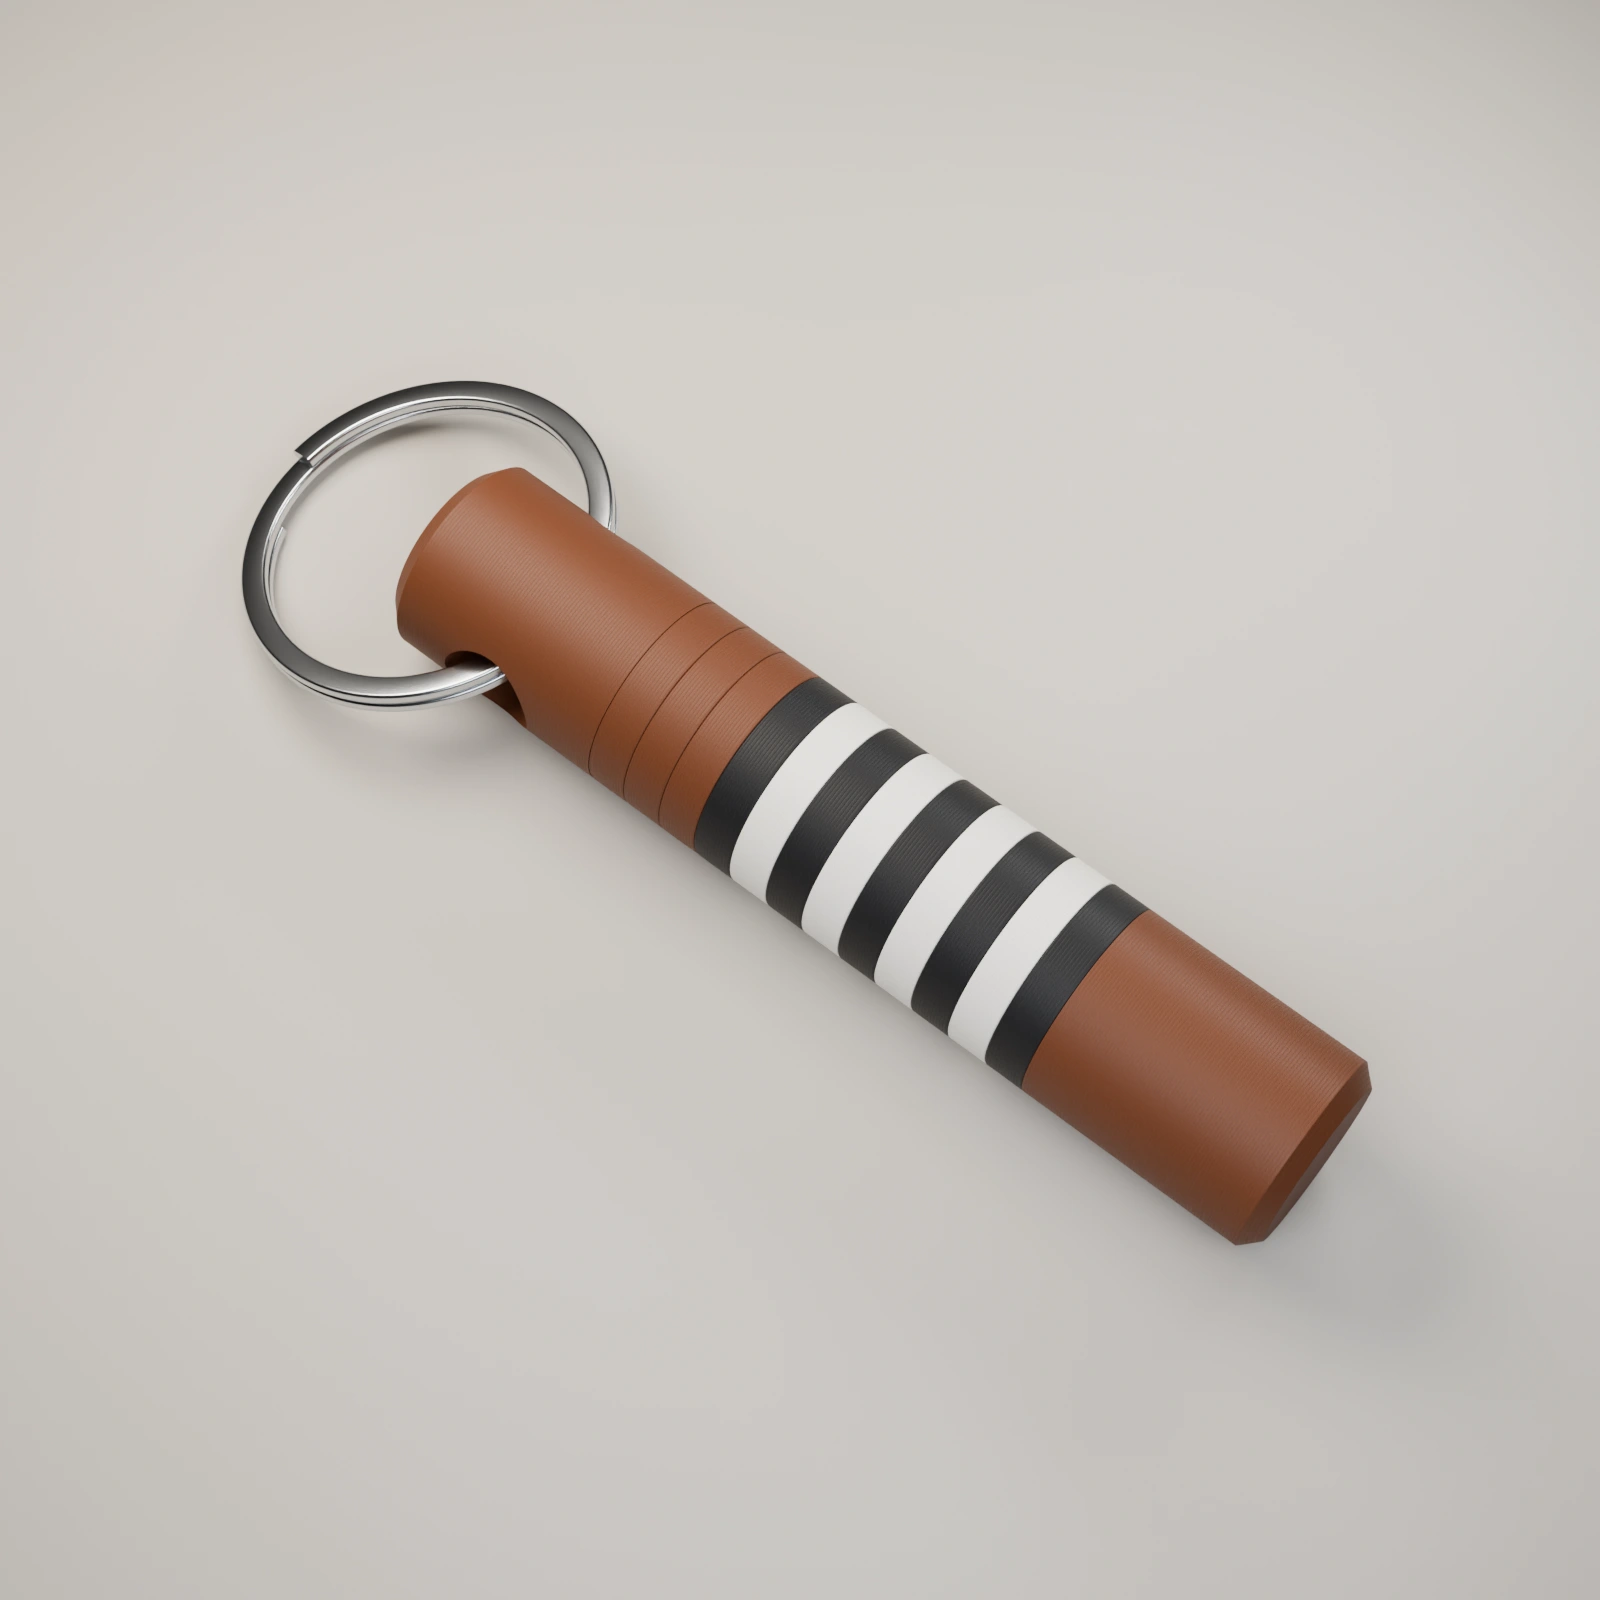
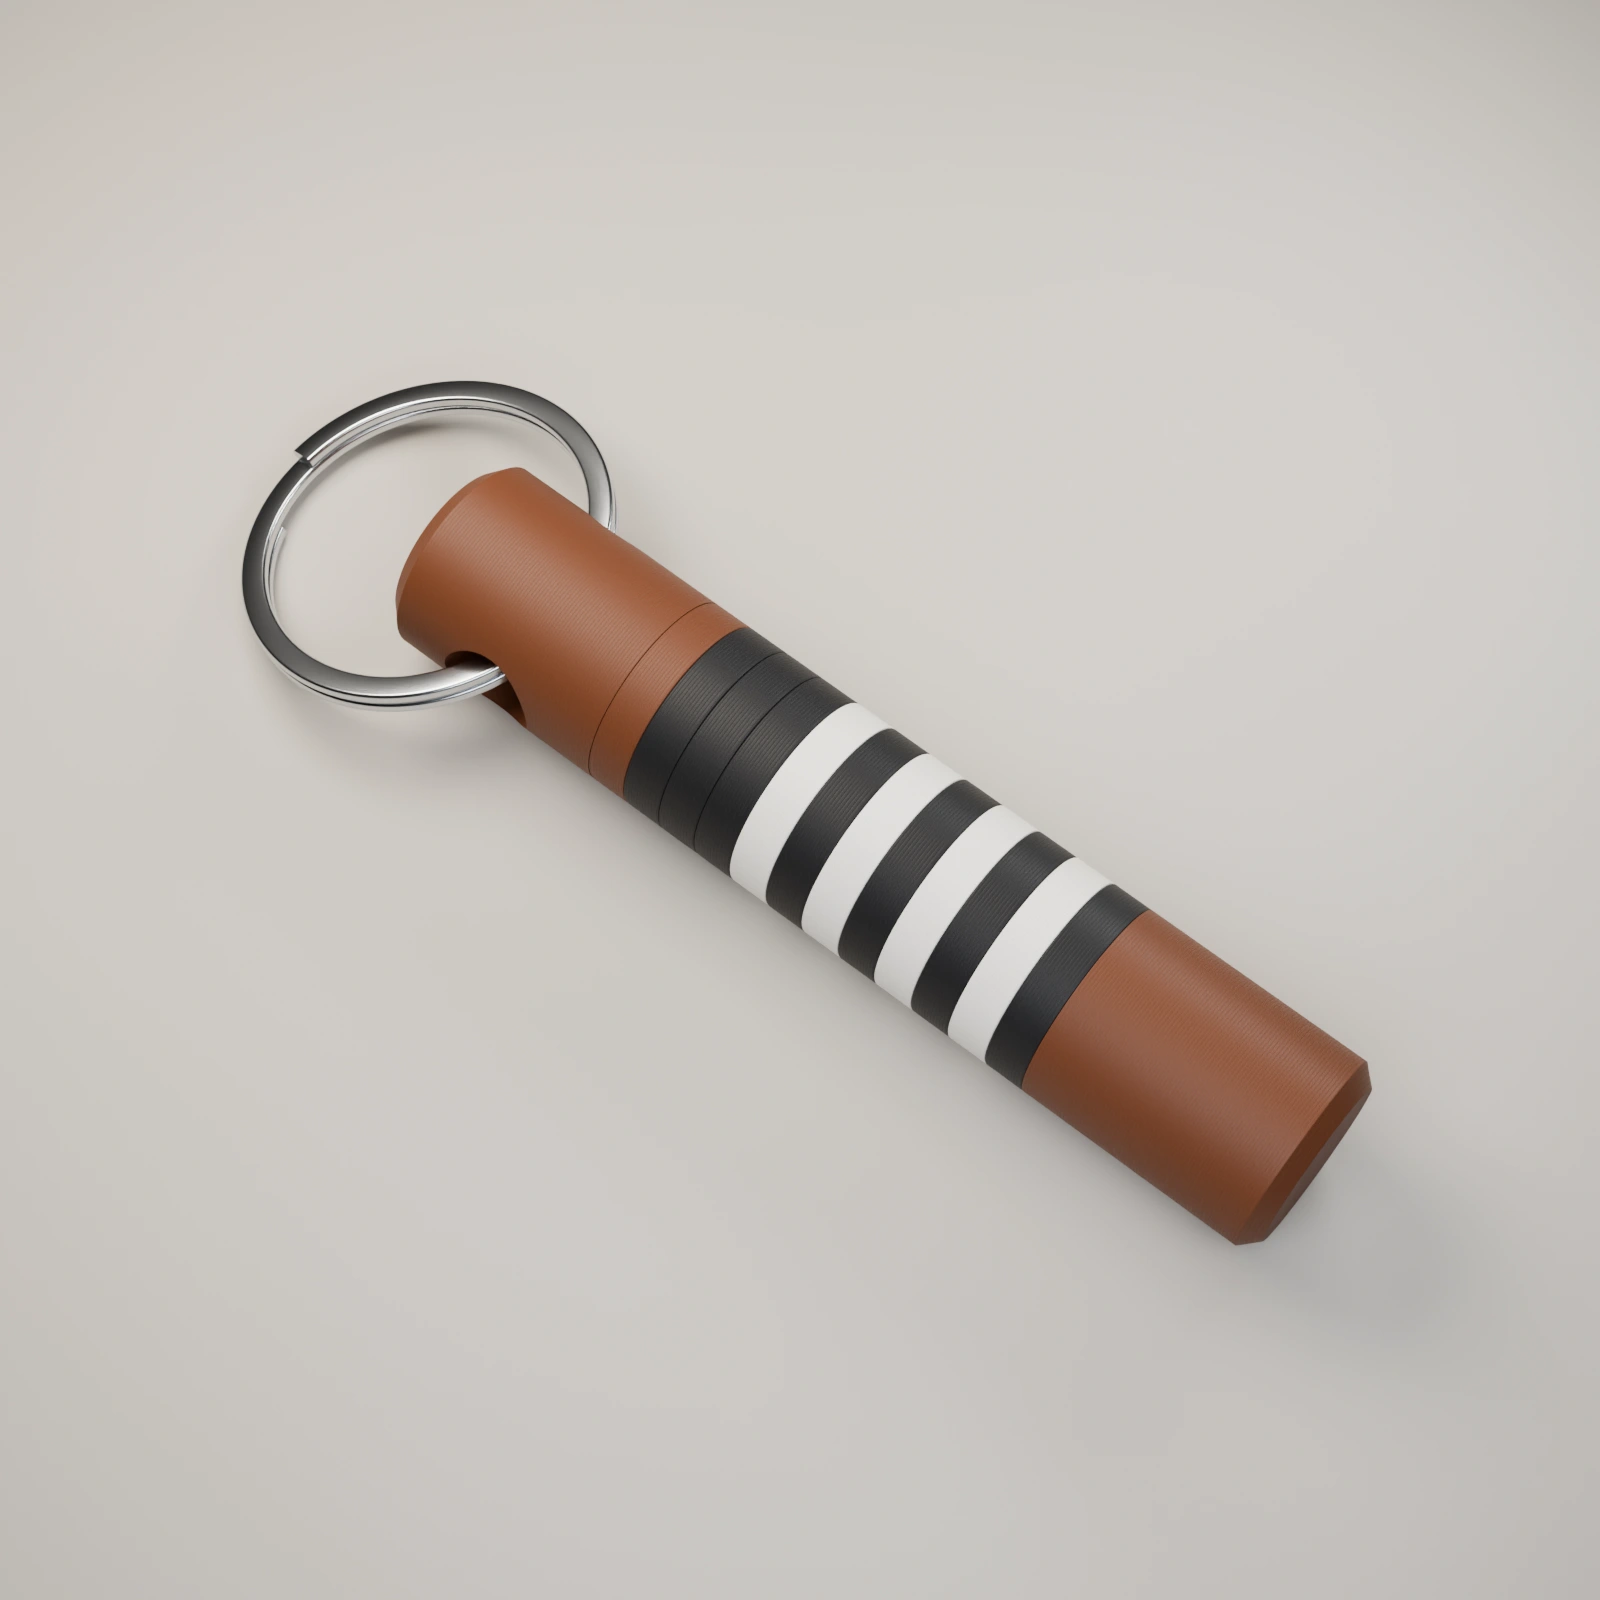
Update belt keychain render ring order

Changed region(s): [[0.375, 0.375, 0.5, 0.5312]]

diff --git a/src/config/copy.ts b/src/config/copy.ts
@@ -13,7 +13,7 @@ export const copy = {
     charge: 'Payment is authorized at checkout and only charged once I confirm your order.',
     faqTitle: 'Good to know',
     faq: [
-      ['How do the stripes work?', 'Unscrew the cap and slide the rings off. Alternate white rings with the darker rings to show 0–4 stripes on the rank bar. Group any unused white rings at the top and screw the cap back on.'],
+      ['How do the stripes work?', 'All four white stripes come fitted below the solid section of the rank bar. To show fewer stripes, unscrew the cap, slide off the rings and group any unused white rings above the bar. Then slide the rings back on and screw the cap shut.'],
       ['What is it made of?', 'The belt pieces are 3D-printed in PLA. Each keychain includes a steel split ring.'],
       ['How big is it?', 'The ring stack is about 30 mm tall. The assembled printed body is about 60 mm long, not including the steel key ring.'],
     ],
@@ -36,7 +36,7 @@ export const copy = {
     charge: 'El pago se autoriza al hacer el pedido y solo se cobra cuando lo confirme.',
     faqTitle: 'Preguntas frecuentes',
     faq: [
-      ['¿Cómo funcionan las rayas?', 'Desenrosca el tapón y saca los aros. Alterna los aros blancos con los de la barra de grados para mostrar de 0 a 4 rayas. Agrupa los aros blancos que no uses en la parte superior y vuelve a enroscar el tapón.'],
+      ['¿Cómo funcionan las rayas?', 'Las cuatro rayas blancas vienen montadas debajo de la parte lisa de la barra de grados. Para mostrar menos rayas, desenrosca el tapón, saca los aros y agrupa los aros blancos que no uses por encima de la barra. Vuelve a colocar los aros y enrosca el tapón.'],
       ['¿De qué material es?', 'Las piezas del cinturón están impresas en 3D en PLA. Cada llavero incluye una anilla de acero.'],
       ['¿Cuánto mide?', 'El tramo de los aros mide unos 30 mm. El cuerpo impreso montado mide unos 60 mm, sin contar la anilla de acero.'],
     ],
